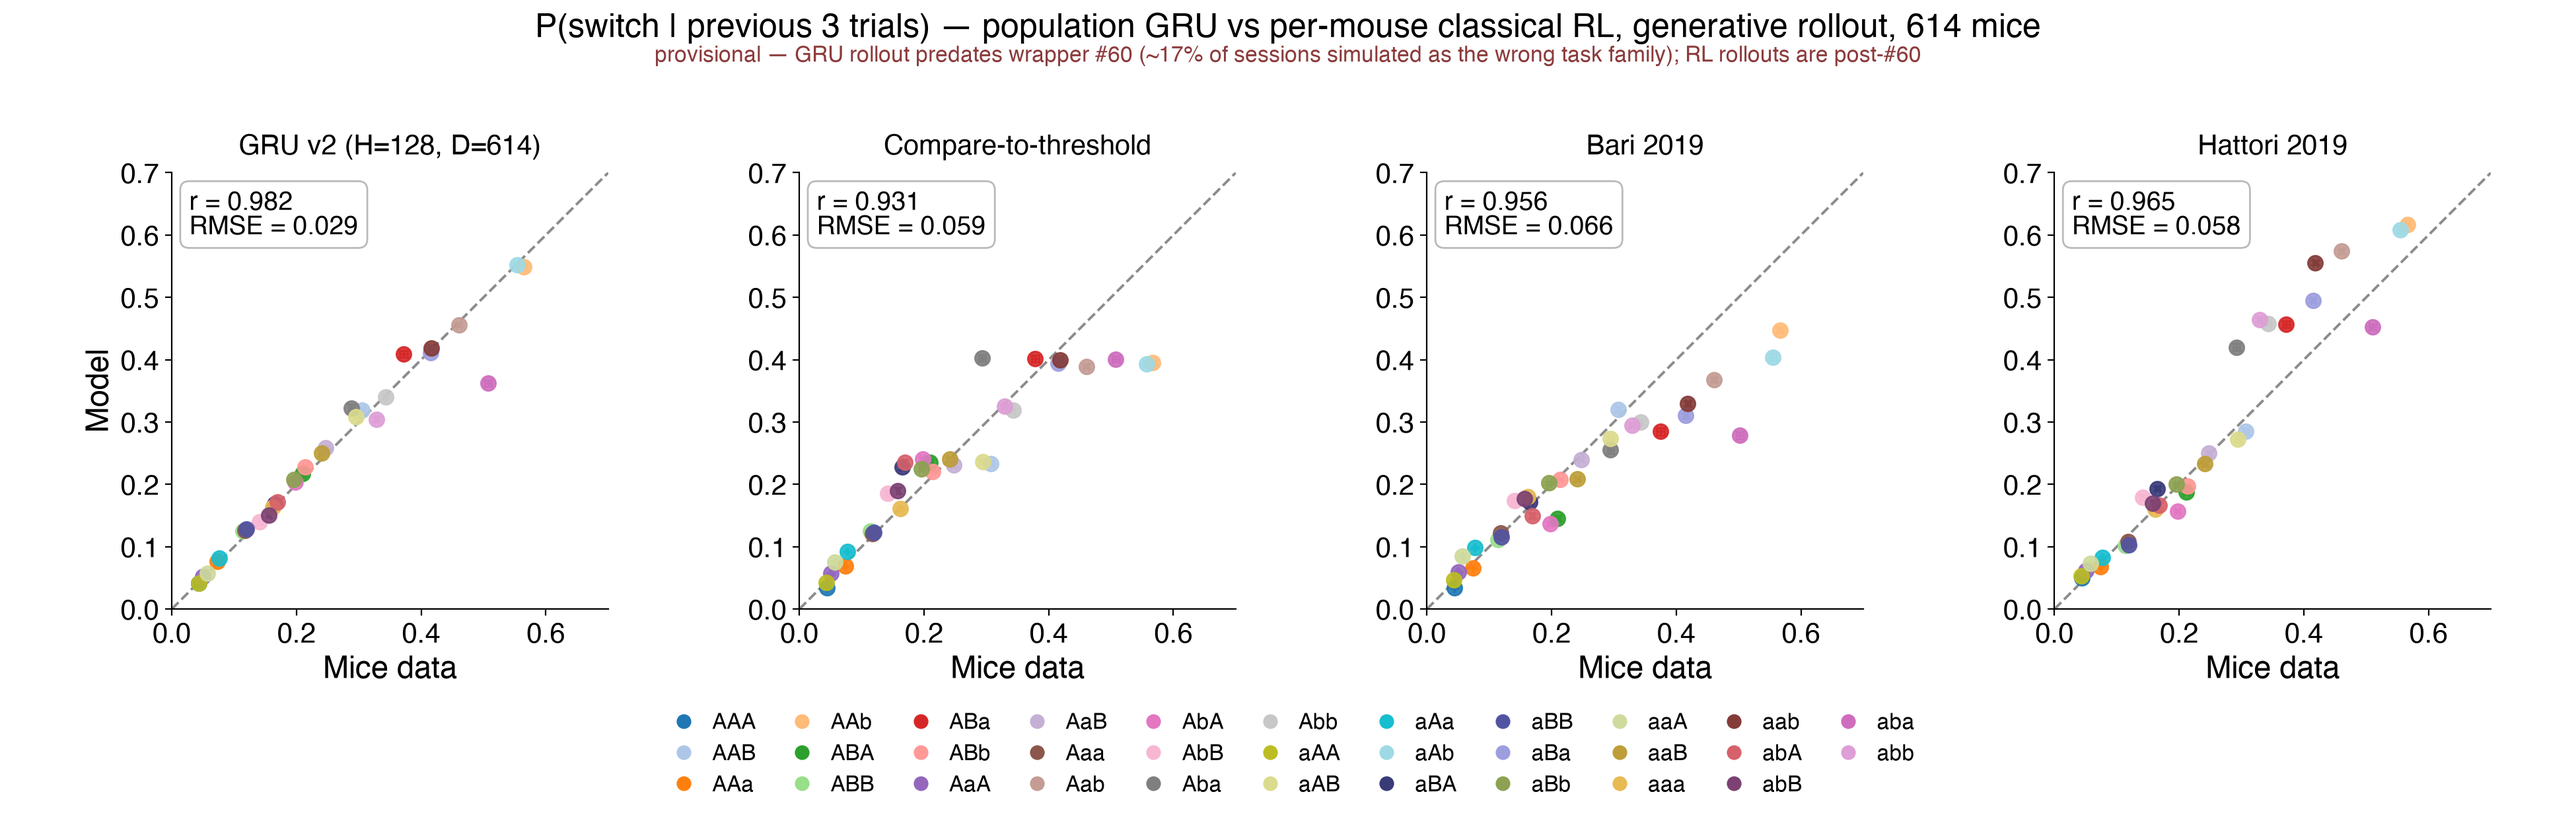
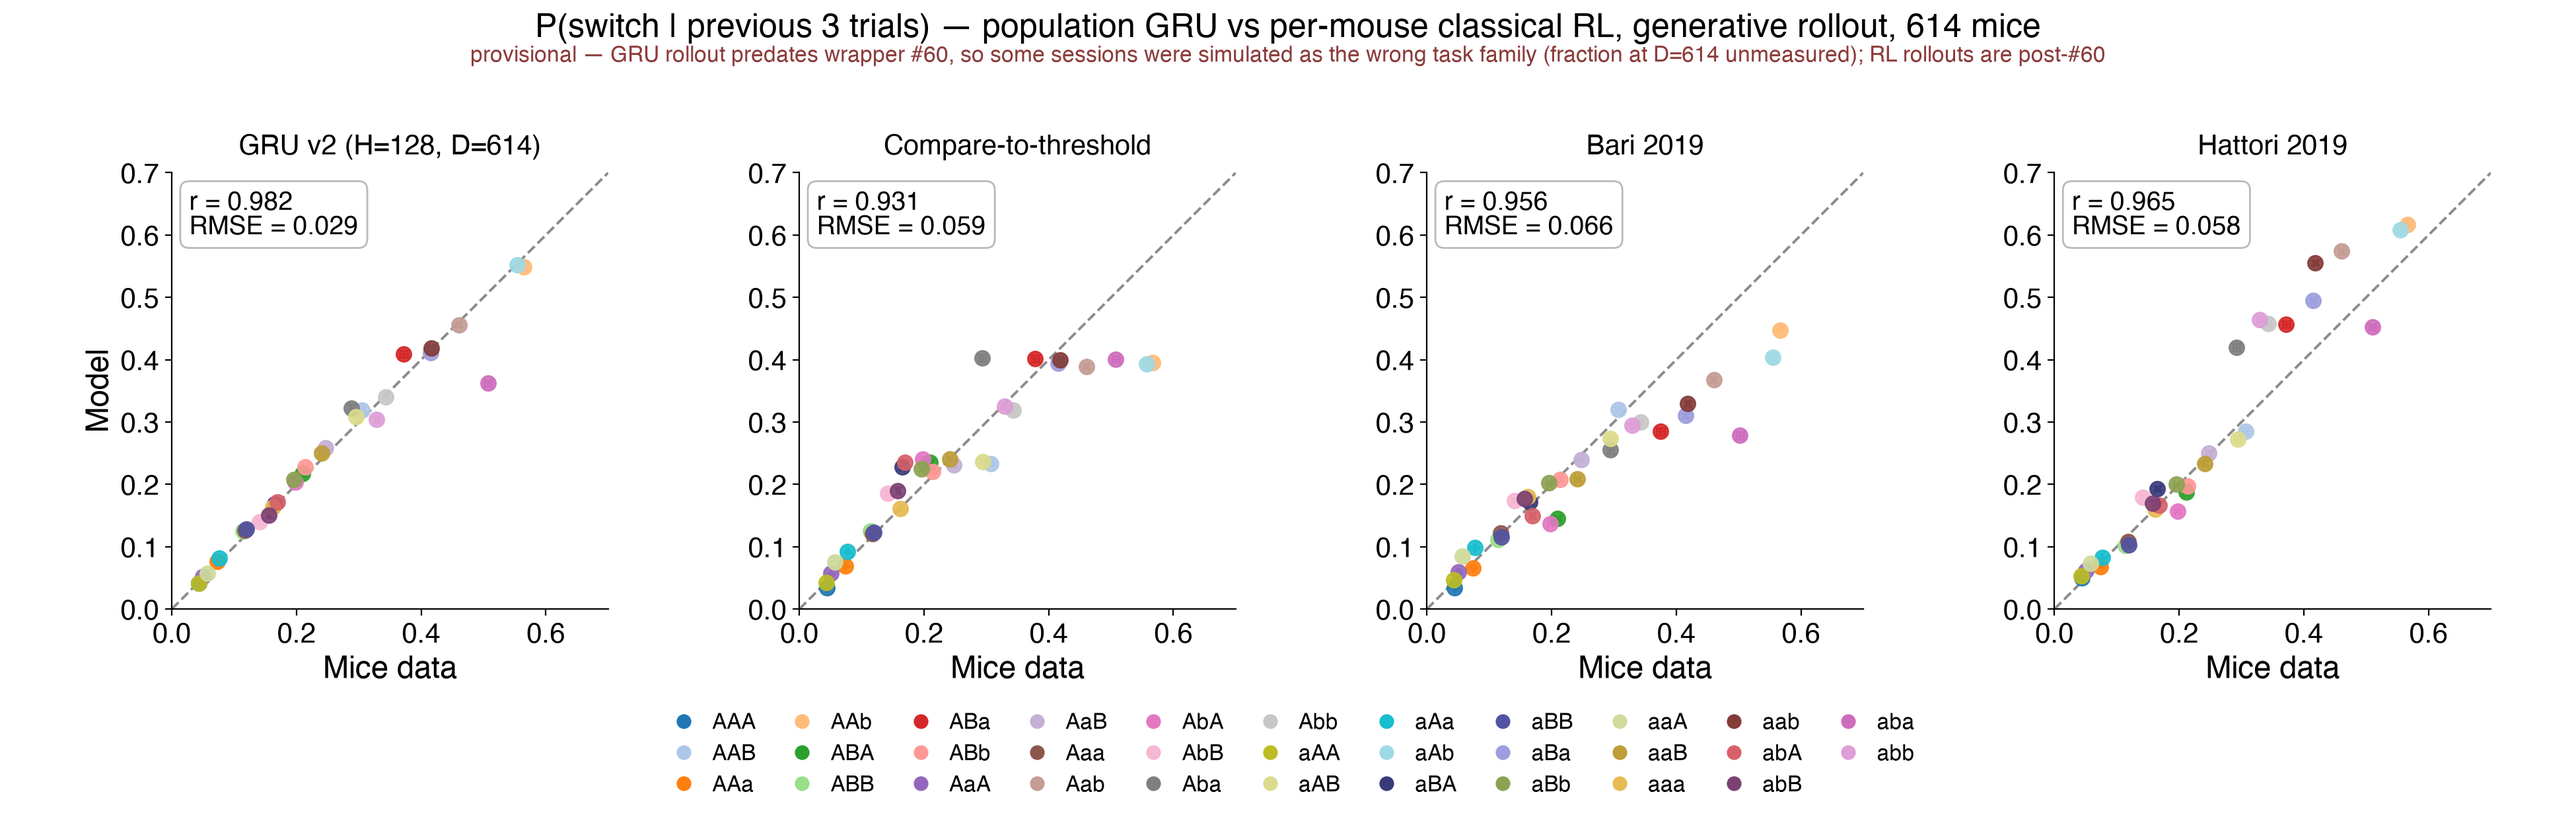
fix(study-01): the ~17% wrong-task figure is D=10, not D=614
The figure text and the producer docstring both carried "~17% of
sessions simulated as the wrong task family" with no cohort qualifier,
and the comparison figure plots D=614. r9's own caveat had it right all
along -- "~17% of sessions in the D=10 cohort; the affected fraction at
other D is untested here" -- and I dropped the qualifier when moving the
caveat onto the image, which is the one place a reader cannot check it.

Per wrapper 65f621d the 17% is 40 literal-string 'None' plus 2 null
curricula out of the D=10 cohort's 249 sessions. The only D=614 count on
record is e477074's Random Walk slice: 9 sessions / 3 subjects / 8,284
trials. The D=614 share has never been measured.

Figure text now reads "some sessions were simulated as the wrong task
family (fraction at D=614 unmeasured)". r9 gains a sub-bullet scoping
the number, a commit-level breakdown of what #60 fixed (ba9fa5f the
crash on NaN curricula, 65f621d the silent literal-'None' default,
e477074 Random Walk), and -- more useful for reading any figure in the
report -- what it did NOT fix: the task is still built from the
curriculum FAMILY with the gym's DEFAULT block/reward parameters, with
the session's stage parameters ignored (current_stage_actual logged and
unused), on both sides of every panel, pre- and post-#60 alike.

Changed region(s): [[0.1862, 0.0613, 0.8067, 0.0919]]

diff --git a/studies/01-gru-scaling-law/analysis/pswitch_history_patterns.py b/studies/01-gru-scaling-law/analysis/pswitch_history_patterns.py
@@ -20,7 +20,7 @@ with the `combined/history_pattern_comparison_abstract` media panels logged on e
 generative run in `generative-v{1,2}@20260623-18074*`.
 
 That is a presentational match, NOT a quantitative one. Those GRU rollouts predate wrapper
-PR #60, so ~17% of their sessions were simulated as the wrong task family (a default
+PR #60, so an unmeasured share of their sessions was simulated as the wrong task family (a default
 uncoupled-baiting task); these RL rollouts are post-#60 and build the task from each
 session's own curriculum. The two sides therefore do not share task-family construction --
 see r9's Caveats. Pairing them in one side-by-side claim is what the pending GRU rerun is
@@ -184,9 +184,9 @@ def main() -> None:
                   "generative rollout, 614 mice", y=0.985)
     # The asymmetry is on the figure, not only in the report: the GRU rollout predates
     # wrapper #60 and the RL rollouts do not, so this is a provisional comparison.
-    fig2.text(0.5, 0.945, "provisional — GRU rollout predates wrapper #60 "
-                          "(~17% of sessions simulated as the wrong task family); "
-                          "RL rollouts are post-#60",
+    fig2.text(0.5, 0.945, "provisional — GRU rollout predates wrapper #60, so some sessions "
+                          "were simulated as the wrong task family (fraction at D=614 "
+                          "unmeasured); RL rollouts are post-#60",
               ha="center", va="top", fontsize=12, color="#8c3b3b")
     fig2.tight_layout(rect=(0, 0.22, 1, 0.90))
     fig2.savefig(f"{COMPARE_STEM}.png")

diff --git a/studies/01-gru-scaling-law/analysis/reports/r9-generative-behavioral-match.md b/studies/01-gru-scaling-law/analysis/reports/r9-generative-behavioral-match.md
@@ -302,6 +302,27 @@ r4) is what makes it publishable, and would emit the stats JSON directly.
   reflect wrong-task rollouts that the RL numbers don't. It does **not** affect the RL-vs-disRNN
   comparison in study 05's r4, which runs both models on the same post-#60 code. Re-running this
   report's own GRU rollouts on the fixed wrapper is tracked (see r4) but not yet done.
+  - *Scope of the 17%, since it is easy to over-read (added 2026-08-31):* it is the share of the
+    **D=10** cohort's 249 sessions whose `curriculum_name` was stored as the literal string
+    `'None'` (40) or as null (2), measured in `65f621d`. It is **not** a D=614 number, and the
+    D=614 fraction has never been measured. The only D=614 count on record is from `e477074`:
+    Random Walk sessions, 9 sessions / 3 subjects / 8,284 trials. Quantifying the D=614 share
+    would mean tabulating `curriculum_name` over that cohort's sessions.
+  - *What #60 fixed, in three commits:* `ba9fa5f` — sessions whose `curriculum_name` is NaN
+    (off-curriculum mice) **crashed** the rollout; now the pseudo-curriculum is rebuilt from the
+    subject's most-common `task`, the same rule the data split already used. `65f621d` — the
+    silent half: `curriculum_name` stored as the literal string `'None'` matched no family and
+    fell through to a default uncoupled-baiting task with no warning. `e477074` — Random Walk
+    sessions likewise fell through to that default; now they build the gym's `RandomWalkTask`,
+    and an unknown family raises instead of defaulting.
+  - *What #60 did NOT fix, and still has not been:* the task is matched to the curriculum
+    **family only**, with the gym's **default** block/reward (and random-walk) parameters. The
+    session's stage-specific parameters are still ignored — `current_stage_actual` is logged and
+    unused — so a curriculum spanning several stages collapses into one generic task. This is
+    flagged as an `IMPORTANT LIMITATION (TODO)` in `_build_curriculum_matched_task` and tracked
+    in `FUTURE_DIRECTIONS.md` §5. It applies to **both** sides of every figure in this report,
+    pre- and post-#60 alike, and is the reason absolute "how mouse-like" statements are softer
+    than the correlations suggest.
 
 ## Related
 
